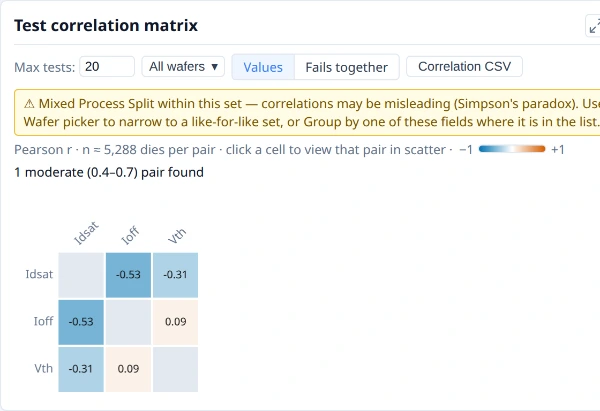
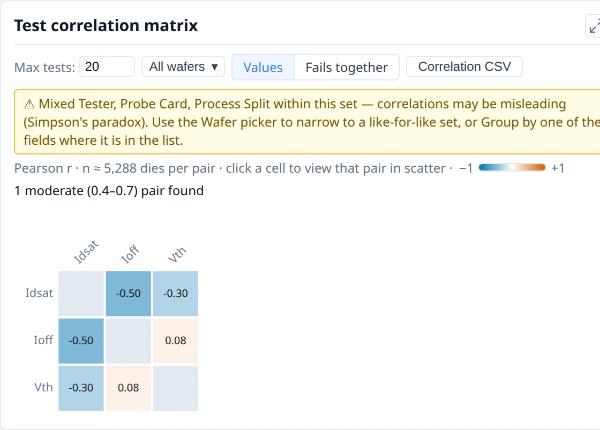
Use neutral names in the sweep examples and give the demo lot equipment
The name-pattern sweep example, its tests and the guide now use neutral test names. The Insights demo lot carries a tester and a probe card, one of them weak, so What divides yield ranks equipment. The Chart gallery gains a thumbnail and a tile for Sweep and for Histogram of the dies picked.

diff --git a/docs/examples/sweeps.html b/docs/examples/sweeps.html
@@ -188,23 +188,23 @@ const LOAD_A = [0, 2, 4, 6, 8, 10, 12, 14, 16].map(mA => mA / 1000);
       <h3>5 · Resistance distribution, values from test names</h3>
       <div class="spec-row">
         <div class="spec-code">
-          <pre>// Tests named "Normalized_LRS= LRS_STATS_12K / Total_LRS (…)": the
+          <pre>// Tests named "Cum_share= LEVEL_12K / Total_n (…)": the
 // threshold is only in the name, so read it from there.
-{ id: 'lrs-cdf',
-  title: 'RRAM LRS distribution — before vs after bake',
+{ id: 'level-cdf',
+  title: 'Level distribution — before vs after bake',
   series: [
-    { label: 'Before bake', tests: ['3500..3509'], xFromName: 'LRS_STATS_{x}' },
-    { label: 'After bake',  tests: ['3510..3519'], xFromName: 'LRS_STATS_{x}' },
+    { label: 'Before bake', tests: ['3500..3509'], xFromName: 'LEVEL_{x}' },
+    { label: 'After bake',  tests: ['3510..3519'], xFromName: 'LEVEL_{x}' },
   ],
   xScale: 'log',            // thresholds grow by multiples: 1K … 1M
-  xUnit: 'Ω', xLabel: 'LRS threshold',
+  xUnit: 'Ω', xLabel: 'Level threshold',
   yLabel: 'Fraction of cells below',
   separationAt: [0.5],      // the median resistance shift
   crossing: false }</pre>
         </div>
         <div class="spec-notes">
           <p class="look">Each test is one point of a cumulative distribution: the fraction
-          of RRAM cells whose low-resistance state reads below a threshold. The program
+          of devices whose resistance reads below a threshold. The program
           writes the threshold only into the test text, so <code>xFromName</code> reads it
           from there — <code>{x}</code> takes the number with its SI prefix, so
           <code>12K</code> is 12,000 Ω. It is a placeholder pattern, not a regular
@@ -241,7 +241,7 @@ const LOAD_A = [0, 2, 4, 6, 8, 10, 12, 14, 16].map(mA => mA / 1000);
     const BAKE_H  = [0, 24, 48, 96, 168, 336, 500, 750, 1000];                 // h — deliberately uneven
     const LOAD_MA = [0, 2, 4, 6, 8, 10, 12, 14, 16];                           // mA, for the model
     const LOAD_A  = LOAD_MA.map(mA => mA / 1000);                              // A, the bare unit, for the axis
-    // LRS thresholds, as the program writes them in the test text.
+    // Level thresholds, as the program writes them in the test text.
     const THRESH  = ['1K', '2K', '5K', '10K', '20K', '50K', '100K', '200K', '500K', '1M'];
     const THRESH_OHM = [1e3, 2e3, 5e3, 1e4, 2e4, 5e4, 1e5, 2e5, 5e5, 1e6];      // Ω, for the model only
 
@@ -251,7 +251,7 @@ const LOAD_A = [0, 2, 4, 6, 8, 10, 12, 14, 16].map(mA => mA / 1000);
     const LOG_ID_LIN = span(3200, 9), LOG_ID_SAT = span(3210, 9);   // derived
     const VT_PROG   = span(3300, 9), VT_ERASE = span(3310, 9);
     const VOH       = span(3400, 9), VOL      = span(3410, 9);
-    const LRS_PRE   = span(3500, 10), LRS_POST = span(3510, 10);
+    const LEVEL_PRE   = span(3500, 10), LEVEL_POST = span(3510, 10);
 
     // Characterisation data: no spec limits on the individual sweep points, which
     // is usual — the judgement is made on the curve, not on each point.
@@ -265,8 +265,8 @@ const LOAD_A = [0, 2, 4, 6, 8, 10, 12, 14, 16].map(mA => mA / 1000);
       ...VOH      .map((tn, i) => ({ testNumber: tn, name: `VOH ${LOAD_MA[i]}mA`,             unit: 'V' })),
       ...VOL      .map((tn, i) => ({ testNumber: tn, name: `VOL ${LOAD_MA[i]}mA`,             unit: 'V' })),
       // The threshold is in the name and nowhere else — what xFromName reads.
-      ...LRS_PRE  .map((tn, i) => ({ testNumber: tn, name: `Normalized_LRS= LRS_STATS_${THRESH[i]} / Total_LRS (before bake)` })),
-      ...LRS_POST .map((tn, i) => ({ testNumber: tn, name: `Normalized_LRS= LRS_STATS_${THRESH[i]} / Total_LRS (after bake)` })),
+      ...LEVEL_PRE  .map((tn, i) => ({ testNumber: tn, name: `Cum_share= LEVEL_${THRESH[i]} / Total_n (before bake)` })),
+      ...LEVEL_POST .map((tn, i) => ({ testNumber: tn, name: `Cum_share= LEVEL_${THRESH[i]} / Total_n (after bake)` })),
     ];
 
     // ── Derived tests ────────────────────────────────────────────────────────
@@ -318,12 +318,12 @@ const LOAD_A = [0, 2, 4, 6, 8, 10, 12, 14, 16].map(mA => mA / 1000);
         xLabel: 'Load current', xUnit: 'A', yLabel: 'Output voltage',
       },
       {
-        id: 'lrs-cdf', title: 'RRAM LRS distribution — before vs after bake',
+        id: 'level-cdf', title: 'Level distribution — before vs after bake',
         series: [
-          { label: 'Before bake', tests: ['3500..3509'], xFromName: 'LRS_STATS_{x}' },
-          { label: 'After bake',  tests: ['3510..3519'], xFromName: 'LRS_STATS_{x}' },
+          { label: 'Before bake', tests: ['3500..3509'], xFromName: 'LEVEL_{x}' },
+          { label: 'After bake',  tests: ['3510..3519'], xFromName: 'LEVEL_{x}' },
         ],
-        xScale: 'log', xUnit: 'Ω', xLabel: 'LRS threshold',
+        xScale: 'log', xUnit: 'Ω', xLabel: 'Level threshold',
         yLabel: 'Fraction of cells below',
         separationAt: [0.5],
         crossing: false,
@@ -382,15 +382,15 @@ const LOAD_A = [0, 2, 4, 6, 8, 10, 12, 14, 16].map(mA => mA / 1000);
           tv[VOL[i]] =       ron * (0.060 * ma + 0.0010 * ma * ma) + 0.005 * noise(80 + i);
         });
 
-        // 5 · LRS distribution: each die's cells are log-normal in resistance
+        // 5 · level distribution: each die's cells are log-normal in resistance
         // (median 10^4.2 ≈ 16 kΩ, higher at the edge); a bake shifts the median
         // up ~2.5× and widens the spread. Each test is the fraction of cells
         // below its threshold — a logistic CDF of log10 R.
         const mu = 4.2 + 0.06 * noise(6) + 0.12 * radial;
         const cdf = (ohm, m, sd) => 1 / (1 + Math.exp(-(Math.log10(ohm) - m) / sd));
         THRESH_OHM.forEach((ohm, i) => {
-          tv[LRS_PRE[i]]  = cdf(ohm, mu,        0.22);
-          tv[LRS_POST[i]] = cdf(ohm, mu + 0.40, 0.27);
+          tv[LEVEL_PRE[i]]  = cdf(ohm, mu,        0.22);
+          tv[LEVEL_POST[i]] = cdf(ohm, mu + 0.40, 0.27);
         });
 
         // Only the sweep tests: the shared demo data's own tests are not the

diff --git a/docs/examples/insights.html b/docs/examples/insights.html
@@ -143,6 +143,10 @@
     <section>
       <h3>Shown on their own pages</h3>
       <p>The maps, the sweeps and the menu on picked dies are not on this page; each has its own.</p>
+      <div class="tiles">
+        <a class="tile" href="drilldown.html" data-id="histogram-of-the-dies-picked" title="How one test’s values are distributed over the dies picked: the number of dies in each value range, with the test’s limits marked."><img src="thumbs/histogram-of-the-dies-picked.webp" alt="" loading="lazy"><strong>Histogram of the dies picked</strong><span>How one test’s values are distributed over the dies picked: the number of dies in each value range, with the test’s limits marked.</span></a>
+        <a class="tile" href="sweeps.html" data-id="sweep" title="A measured value against a swept condition, a curve per series, to show how the part responds across the range."><img src="thumbs/sweep.webp" alt="" loading="lazy"><strong>Sweep</strong><span>A measured value against a swept condition, a curve per series, to show how the part responds across the range.</span></a>
+      </div>
       <div class="chips">
         <a class="chip" href="display-control.html" title="Each die coloured by its hard or soft bin, passing bins in greens and failing bins in other colours, to show where the failures are.">Bin map</a>
         <a class="chip" href="test-values.html" title="Each die coloured by one test’s value on a colour scale, with the test’s limits on the colour bar, to show where on the wafer the value shifts.">Test value map</a>
@@ -150,8 +154,6 @@
         <a class="chip" href="test-values.html" title="Each die coloured by the pass or fail the tester recorded for one test, to show where a test failed, whether or not it has a measured value.">Test pass/fail map</a>
         <a class="chip" href="metadata-mode.html" title="Each die coloured by an attribute the data carries (a test site, a probe step, a zone), to show whether a pattern follows it.">Die attribute map</a>
         <a class="chip" href="lot-stack-analysis.html" title="The wafers of a lot laid over one another die by die: how often a bin occurs, or a value’s mean, median or spread at each position, to show what repeats from wafer to wafer.">Stacked map</a>
-        <a class="chip" href="drilldown.html" title="How one test’s values are distributed over the dies picked: the number of dies in each value range, with the test’s limits marked.">Histogram of the dies picked</a>
-        <a class="chip" href="sweeps.html" title="A measured value against a swept condition, a curve per series, to show how the part responds across the range.">Sweep</a>
       </div>
     </section>
   </div>
@@ -167,7 +169,7 @@
     import { renderWaferGallery } from 'wafermap/render';
     import { analyzeWaferLot } from 'wafermap/stats';
     import {
-      makeResults, makeWaferConfig, DIE_CONFIG,
+      makeResults, makeWaferConfig, equipmentForWafer, DIE_CONFIG,
       TEST_DEFS, FUNCTIONAL_TEST_DEF, HBIN_DEFS, SBIN_DEFS,
     } from './data.js';
 
@@ -186,8 +188,8 @@
     const items = [];
     for (let i = 0; i < WAFER_COUNT; i++) {
       const result = buildWaferMap({
-        results:     makeResults({ seed: 11 + i, waferIndex: i, quadrant: true, edgeFail: true }),
-        waferConfig: makeWaferConfig(i),
+        results:     makeResults({ seed: 11 + i, waferIndex: i, quadrant: true, edgeFail: true, yieldShift: equipmentForWafer(i).yieldShift }),
+        waferConfig: makeWaferConfig(i, { equipment: true }),
         dieConfig:   DIE_CONFIG,
         passBins:    PASS_BINS,
         // A reticle grid, so the lot has reticle cells to take a yield from.
@@ -250,7 +252,7 @@
     // A tile opens its chart live: the Insights tab it is on, then the live view in sight.
     document.addEventListener('click', e => {
       const tile = e.target.closest('.tile');
-      if (!tile) return;
+      if (!tile || !tile.dataset.tab) return;   // a tile with no tab is a link to a page of its own
       e.preventDefault();
       const tab = document.querySelector(`[data-wmap-insights-tab="${tile.dataset.tab}"]`);
       if (tab) tab.click();

diff --git a/docs/examples/data.js b/docs/examples/data.js
@@ -77,6 +77,8 @@ export const SPLIT_VTH_BIAS = { 'POR': 0, 'Hi-dose': 0.050 };
  * @param {number}  [opts.siteFail=0]            Site number (1-based) to inject a yield loss on (~20 pp drop).
  *                                               Ignored when siteCount=0.
  * @param {boolean} [opts.includePartId=false]   When true, adds partId (1-based probe step counter, row order).
+ * @param {number}  [opts.yieldShift=0]          Pass probability lost across the whole wafer (a weak probe card):
+ *                                               pair it with `equipmentForWafer(index).yieldShift`.
  * @param {number}  [opts.waferIndex]             When given, applies that wafer's process-split Vth bias
  *                                                (see `splitForWafer`/`SPLIT_VTH_BIAS`). Pair it with
  *                                                `makeWaferConfig(waferIndex)`, which stamps the matching
@@ -95,6 +97,7 @@ export function makeResults({
   siteCount       = 0,
   siteFail        = 0,
   includePartId   = false,
+  yieldShift      = 0,
   waferIndex,
 } = {}) {
   const vthBias = waferIndex === undefined ? 0 : (SPLIT_VTH_BIAS[splitForWafer(waferIndex)] ?? 0);
@@ -169,6 +172,7 @@ export function makeResults({
         if (cellX === 2 && cellY === 1) pass -= 0.32;
       }
 
+      pass -= yieldShift;
       pass = Math.max(0.04, Math.min(0.97, pass));
 
       // Hard bin + soft bin assignment
@@ -354,16 +358,30 @@ export const WAFER_CONFIG = {
 };
 
 /**
- * Build a wafer config for a specific wafer in a lot.
+ * The equipment a wafer of the demo lot was probed on. Independent of the process split (which alternates), so the two are
+ * different reasons for a difference between wafers: the middle probe card is weak, and costs its wafers yield; the testers
+ * differ in name only.
  * @param {number} index  0-based wafer index.
  */
-export function makeWaferConfig(index) {
+export function equipmentForWafer(index) {
+  const probeCard = index < 3 ? 'PC-0114' : index < 6 ? 'PC-0207' : 'PC-0331';
+  return { tester: index < 5 ? 'Tester-1' : 'Tester-2', probeCard, yieldShift: probeCard === 'PC-0207' ? 0.12 : 0 };
+}
+
+/**
+ * Build a wafer config for a specific wafer in a lot.
+ * @param {number} index  0-based wafer index.
+ * @param {{ equipment?: boolean }} [opts]  `equipment` adds the tester and probe card the wafer was probed on.
+ */
+export function makeWaferConfig(index, { equipment = false } = {}) {
   const n = String(index + 1).padStart(2, '0');
+  const { tester, probeCard } = equipmentForWafer(index);
   return {
     ...WAFER_CONFIG,
     metadata: {
       ...WAFER_CONFIG.metadata,
       waferId: `W${n}`,
+      ...(equipment ? { tester, probeCard } : {}),
       // The lot's groupable axis. Pair with `makeResults({ waferIndex: index })`
       // so the wafer's data actually reflects the split it is labelled with.
       processSplit: splitForWafer(index),

diff --git a/packages/stats/sweepXFromName.ts b/packages/stats/sweepXFromName.ts
@@ -1,5 +1,5 @@
 // Reading a sweep point's x value out of its test's NAME — for programs that
-// record the swept quantity only in the test text ("… LRS_STATS_12K / …").
+// record the swept quantity only in the test text ("… LEVEL_12K / …").
 //
 // The pattern is a placeholder template, not a regular expression: `{x}` reads
 // a number, `*` matches any run of characters, `?` matches exactly one character, everything else is literal.
@@ -86,11 +86,11 @@ export const NAME_PATTERN_EXAMPLES: ReadonlyArray<{ name: string; pattern: strin
   { name: 'Tj-40C_Vth', pattern: 'Tj{x}C', reads: -40, note: 'a minus sign belongs to the number' },
   { name: 'Step 03 of 12', pattern: 'Step {x}', reads: 3 },
   { name: 'PAT_7_RUN2', pattern: 'PAT_{x}_', reads: 7, note: 'text after {x} must follow it, so RUN2 is not read' },
-  { name: 'LRS_STATS_12K', pattern: 'LRS_STATS_{x}', reads: 12000, note: '{x} reads the K as kilo' },
-  { name: 'LRS_STATS_12K', pattern: 'LRS_STATS_{x}K', reads: 12, note: 'write the K in the pattern to keep the number as the name shows it' },
+  { name: 'LEVEL_12K', pattern: 'LEVEL_{x}', reads: 12000, note: '{x} reads the K as kilo' },
+  { name: 'LEVEL_12K', pattern: 'LEVEL_{x}K', reads: 12, note: 'write the K in the pattern to keep the number as the name shows it' },
   { name: 'Fmax_25C_0.55V', pattern: 'C_{x}', reads: 0.55, note: 'the text just before the number, here the end of the temperature' },
   { name: 'VCC_1.8V_TEMP_125', pattern: 'TEMP_{x}', reads: 125, note: 'other numbers in the name are ignored' },
-  { name: 'LRS_RUN3_STATS_12K', pattern: 'LRS*STATS_{x}', reads: 12000, note: '* skips any length of text between the two parts' },
+  { name: 'RUN3_LEVEL_12K', pattern: 'RUN*LEVEL_{x}', reads: 12000, note: '* skips any length of text between the two parts' },
   { name: 'fmax @ 0.55 v', pattern: 'FMAX @ {x}', reads: 0.55, note: 'text matches in any case' },
   { name: 'Vth @ 50mV', pattern: '@ {x}', reads: 0.05, note: 'the m of mV is read as milli, so 50 mV is 0.05' },
   { name: 'Delay 5ns @ 25C', pattern: 'Delay {x}', reads: 5e-9, note: 'a unit with a prefix is scaled to its base unit' },

diff --git a/packages/stats/sweep.ts b/packages/stats/sweep.ts
@@ -64,13 +64,13 @@ export interface SweepSeriesSpec {
    * Read each test's x value from its NAME instead — for programs that record
    * the swept quantity only in the test text. A placeholder pattern, not a
    * regular expression: `{x}` reads a number, `*` matches any run of
-   * characters, `?` matches exactly one character, everything else is literal. `"LRS_STATS_{x}"` reads 12,000 from
-   * a test named `"Normalized_LRS= LRS_STATS_12K / …"`.
+   * characters, `?` matches exactly one character, everything else is literal. `"LEVEL_{x}"` reads 12,000 from
+   * a test named `"Cum_share= LEVEL_12K / …"`.
    *
    * - The pattern is found ANYWHERE in the name; no leading or trailing `*`.
    * - Literal text matches case-insensitively; the value's SI prefix does not
    *   (`m` is milli, `M` mega). `{x}` reads the prefix, and `K` is accepted as
-   *   kilo. Put the prefix in the pattern instead (`"LRS_STATS_{x}K"`) to keep
+   *   kilo. Put the prefix in the pattern instead (`"LEVEL_{x}K"`) to keep
    *   the numbers as the name shows them (12 rather than 12,000).
    * - Each x stays attached to its own test, so a test missing from the data
    *   loses one point instead of shifting every later x the way a positional

diff --git a/packages/canvas-adapter/sweepEditor.ts b/packages/canvas-adapter/sweepEditor.ts
@@ -188,7 +188,7 @@ export function createSweepEditor(o: SweepEditorOptions): SweepEditorHandle {
       }, { mono: true });
       box.appendChild(fieldRow(doc, 'X values', xs.el, 'One per test, in the same order. A different count is reported on the chart, which then uses test order.'));
     } else if (source === 'name') {
-      const pat = textField(s.xFromName ?? '', `Series ${i + 1} name pattern`, 'LRS_STATS_{x}', text => {
+      const pat = textField(s.xFromName ?? '', `Series ${i + 1} name pattern`, 'LEVEL_{x}', text => {
         edit(d => { d.sweep!.series[i].xFromName = text; });
         refreshPreview?.();
         return undefined;

diff --git a/docs/examples/derived-tests.html b/docs/examples/derived-tests.html
@@ -158,7 +158,7 @@
     <p>This page has one sweep. The <a href="sweeps.html"><strong>parametric sweeps
       example</strong></a> has five, each a different use of the crossing and the width
       — temperature inversion, DIBL on a log scale, data retention, output drive with
-      an x unit, and an RRAM resistance distribution read from the test names onto a
+      an x unit, and a resistance distribution read from the test names onto a
       log axis.</p>
   </div>
   <div class="spec-list">

diff --git a/docs/api/render-map.md b/docs/api/render-map.md
@@ -1000,7 +1000,7 @@ insights: {
 | `title` | `string` | Card title |
 | `series[].tests` | `(number \| string)[]` | Test numbers **in sweep order** — never sorted. An entry may be a range string, `"1200..1230"` (see below) |
 | `series[].xValues` | `number[]` | The real swept quantity per test, one per test **after** ranges are expanded. Without it the x axis is the ordinal position, because test numbers are identifiers and nothing guarantees they are evenly spaced — interpolating a crossing along them would assume a scale the data never claimed. Supply it and the crossing is reported in dBm rather than "between the 3rd and 4th test". |
-| `series[].xFromName` | `string` | Read each test's x value from its **name** instead of `xValues` — for programs that record the swept quantity only in the test text. A placeholder pattern, not a regex: `{x}` reads a number, `*` matches anything, `?` matches exactly one character, the rest is literal. Found anywhere in the name; literal text matches regardless of case. `{x}` reads an SI prefix (`12K` → 12,000, `1M` → 1,000,000; case-sensitive, so `m` is milli, with `K` accepted as kilo). A letter counts as a prefix only when it stands alone or leads a unit symbol — `12K`, `12kΩ`, `5us` — so `12Kangaroos` reads 12. In a name written all in capitals a prefix before a unit is read in any case (`5NS` → 5 ns), except `M`, which could be milli or mega and is reported rather than guessed (`2MV`): spell it in the pattern (`"V_{x}MV"`). Put the prefix in the pattern (`"LRS_STATS_{x}K"`) to keep the number as written. Each x stays attached to its own test, so a missing test loses one point rather than shifting the rest. A name the pattern does not fit is reported and nothing is measured. Not a regex because a shared file must not be able to freeze the app: this matcher's cost is bounded whatever the pattern. |
+| `series[].xFromName` | `string` | Read each test's x value from its **name** instead of `xValues` — for programs that record the swept quantity only in the test text. A placeholder pattern, not a regex: `{x}` reads a number, `*` matches anything, `?` matches exactly one character, the rest is literal. Found anywhere in the name; literal text matches regardless of case. `{x}` reads an SI prefix (`12K` → 12,000, `1M` → 1,000,000; case-sensitive, so `m` is milli, with `K` accepted as kilo). A letter counts as a prefix only when it stands alone or leads a unit symbol — `12K`, `12kΩ`, `5us` — so `12Kangaroos` reads 12. In a name written all in capitals a prefix before a unit is read in any case (`5NS` → 5 ns), except `M`, which could be milli or mega and is reported rather than guessed (`2MV`): spell it in the pattern (`"V_{x}MV"`). Put the prefix in the pattern (`"LEVEL_{x}K"`) to keep the number as written. Each x stays attached to its own test, so a missing test loses one point rather than shifting the rest. A name the pattern does not fit is reported and nothing is measured. Not a regex because a shared file must not be able to freeze the app: this matcher's cost is bounded whatever the pattern. |
 | `series[].testNames` | `Record<string, string>` | What each test was called when the sweep was set up, by test number. The number is the key and the name is a check: a test whose name now differs (case and surrounding space aside) is not drawn, the card names it, and the crossing and widths are not measured — a lot from another test program can reuse the numbers for other measurements. The sweep editor and **+ New sweep** fill it in; a sweep written by hand without it is not checked. |
 | `series[].color` | `string` | Optional override. Omit it and the series take CVD-safe palette colours that theme correctly in dark mode; a hardcoded hex does neither. |
 | `crossing` | `boolean` | Default `true` when there are two or more series |
@@ -1015,19 +1015,19 @@ A sweep deliberately carries **no population scope of its own**: it names which 
 
 **Drilldown.** Every sweep plot is also offered on a population the user picks — selected dies, one wafer — in the menu's **Plots** section, alongside a value histogram and process capability. See §5.12.
 
-**Swept values in test names, on a log axis.** A resistance CDF — one test per threshold, the threshold written only in the test text (`Normalized_LRS= LRS_STATS_12K / …`), thresholds growing by multiples:
+**Swept values in test names, on a log axis.** A resistance CDF — one test per threshold, the threshold written only in the test text (`Cum_share= LEVEL_12K / …`), thresholds growing by multiples:
 
 ```ts
 sweeps: [{
-  id: 'lrs-cdf',
-  title: 'LRS CDF — before vs after bake',
-  xLabel: 'LRS threshold', xUnit: 'Ω', xScale: 'log',
+  id: 'level-cdf',
+  title: 'Level CDF — before vs after bake',
+  xLabel: 'Level threshold', xUnit: 'Ω', xScale: 'log',
   yLabel: 'Fraction of cells below',
   separationAt: [0.5],        // the median resistance shift, reported as a ratio
   crossing: false,            // two CDFs of one population are not expected to meet
   series: [
-    { label: 'Before bake', tests: ['31200..31230'], xFromName: 'LRS_STATS_{x}' },  // 12K → 12,000 Ω
-    { label: 'After bake',  tests: ['31300..31330'], xFromName: 'LRS_STATS_{x}' },
+    { label: 'Before bake', tests: ['41200..41230'], xFromName: 'LEVEL_{x}' },  // 12K → 12,000 Ω
+    { label: 'After bake',  tests: ['41300..41330'], xFromName: 'LEVEL_{x}' },
   ],
 }]
 ```

diff --git a/docs/guide/galleries.md b/docs/guide/galleries.md
@@ -520,7 +520,7 @@ renderWaferGallery(container, items, {
 
 A sweep is a plot with `chart: 'sweep'`, so it is a card on the **My plots** sub-tab, kept and shared like any other plot (`plots`, `onPlotsChange`, Export and Import) — on a single map or a gallery alike. **+ New sweep** starts one in the app and **Edit** opens a sweep editor beside the curve; pass `defaultView: 'plot'` to open on the tab. `insights.sweeps` still works but is deprecated: each entry is drawn as a sweep plot under its own `id`, and `readPlotsFile` reads a `tsmap-sweeps` file.
 
-**→ [Example: Parametric sweeps](../examples/sweeps.html)** — five characterisation sweeps: temperature inversion, DIBL, data retention, output drive, and an RRAM resistance distribution read from test names on a log axis.
+**→ [Example: Parametric sweeps](../examples/sweeps.html)** — five characterisation sweeps: temperature inversion, DIBL, data retention, output drive, and a resistance distribution read from test names on a log axis.
 
 **Give the swept quantity whenever you know it.** Without it the x axis is the ordinal position in the sequence, because test numbers are identifiers — nothing guarantees they are evenly spaced or even ascending, and interpolating a crossing point along them would assume a scale the data never claimed. With it, the crossing is reported in dBm rather than "somewhere between the third and fourth test". There are two ways to give it:
 
@@ -545,21 +545,21 @@ A range is checked, not trusted: if one test inside it is missing from this lot,
 - **Along y** (a transfer curve's current, from 1 nA to 1 mA) — sweep a derived test per step, `log10(t[n])`. The width at a constant log-current is then the constant-current threshold shift: DIBL, for two drain biases.
 - **Along x** (thresholds of 1k, 2k, 5k … 1M) — set `xScale: 'log'`. The steps get equal room, the crossing is interpolated along log x, and a width is reported as a **ratio** with both ends, `×2.49 (15.9 kΩ → 39.7 kΩ)`, because on a log axis the same shift is the same multiple anywhere along it. `xUnit` makes the axis and those values read in SI units.
 
-**Swept values in test names.** Some programs record the swept value only in the test text — a resistance CDF with one test per threshold, named `Normalized_LRS= LRS_STATS_12K / Total_LRS= …`. `xFromName` reads it from there with a placeholder pattern:
+**Swept values in test names.** Some programs record the swept value only in the test text — a resistance CDF with one test per threshold, named `Cum_share= LEVEL_12K / Total_n= …`. `xFromName` reads it from there with a placeholder pattern:
 
 ```ts
 sweeps: [{
-  id: 'lrs-cdf',
-  title: 'LRS CDF — before vs after bake',
-  xLabel: 'LRS threshold', xUnit: 'Ω', xScale: 'log',   // thresholds grow by multiples
+  id: 'level-cdf',
+  title: 'Level CDF — before vs after bake',
+  xLabel: 'Level threshold', xUnit: 'Ω', xScale: 'log',   // thresholds grow by multiples
   yLabel: 'Fraction of cells below',
   separationAt: [0.5],                                   // the median resistance shift
   crossing: false,                                       // two CDFs of one cell population do not meet
   series: [
-    // "LRS_STATS_{x}" finds the number after LRS_STATS_ anywhere in the name,
+    // "LEVEL_{x}" finds the number after LEVEL_ anywhere in the name,
     // with its SI prefix: 12K → 12,000 Ω.
-    { label: 'Before bake', tests: ['31200..31230'], xFromName: 'LRS_STATS_{x}' },
-    { label: 'After bake',  tests: ['31300..31330'], xFromName: 'LRS_STATS_{x}' },
+    { label: 'Before bake', tests: ['41200..41230'], xFromName: 'LEVEL_{x}' },
+    { label: 'After bake',  tests: ['41300..41330'], xFromName: 'LEVEL_{x}' },
   ],
 }]
 ```
@@ -579,11 +579,11 @@ sweeps: [{
   | `Tj-40C_Vth` | `Tj{x}C` | −40 | a minus sign belongs to the number |
   | `Step 03 of 12` | `Step {x}` | 3 | |
   | `PAT_7_RUN2` | `PAT_{x}_` | 7 | text after `{x}` must follow it, so `RUN2` is not read |
-  | `LRS_STATS_12K` | `LRS_STATS_{x}` | 12,000 | `{x}` reads the `K` as kilo |
-  | `LRS_STATS_12K` | `LRS_STATS_{x}K` | 12 | write the `K` in the pattern to keep the number as the name shows it |
+  | `LEVEL_12K` | `LEVEL_{x}` | 12,000 | `{x}` reads the `K` as kilo |
+  | `LEVEL_12K` | `LEVEL_{x}K` | 12 | write the `K` in the pattern to keep the number as the name shows it |
   | `Fmax_25C_0.55V` | `C_{x}` | 0.55 | the text just before the number, here the end of the temperature |
   | `VCC_1.8V_TEMP_125` | `TEMP_{x}` | 125 | other numbers in the name are ignored |
-  | `LRS_RUN3_STATS_12K` | `LRS*STATS_{x}` | 12,000 | `*` skips any length of text between the two parts |
+  | `RUN3_LEVEL_12K` | `RUN*LEVEL_{x}` | 12,000 | `*` skips any length of text between the two parts |
   | `fmax @ 0.55 v` | `FMAX @ {x}` | 0.55 | text matches in any case |
   | `Vth @ 50mV` | `@ {x}` | 0.05 | the `m` of `mV` is read as milli, so 50 mV is 0.05 |
   | `Delay 5ns @ 25C` | `Delay {x}` | 5 × 10⁻⁹ | a unit with a prefix is scaled to its base unit |

diff --git a/docs/examples/index.md b/docs/examples/index.md
@@ -27,7 +27,7 @@ Some pages cover several related topics; those links point at the relevant secti
 - [Filtering wafers and dies](filters.html) — one filter for the gallery, a single map and Insights, kept by the host with `insights.filter` and `onFilterChange`; filters saved by name with `savedFilters`, and a hand-written `wafermap-filters` file read by Import… · [Guide: The filter](../guide/galleries.md#the-filter)
 - [Validity limits](validity-limits.html) — tester clamps and open-circuit readings kept out of the map and statistics with `validLow`/`validHigh` and `valueFilter`, with the excluded values counted · [Guide: Validity limits](../guide/data.md#validity-limits-values-that-are-not-measurements)
 - [Derived tests and sweeps](derived-tests.html) — tests computed per die from an expression, and an ordered run of tests read as a response curve with its crossing point and separation measured · [API: DerivedTestDef](../api/core.md#419-derivedtestdef)
-- [Parametric sweeps](sweeps.html) — five characterisation sweeps in their own Insights tab — temperature inversion, DIBL on a log scale via derived tests, data retention, output drive, and an RRAM resistance distribution whose thresholds are read from the test names onto a log axis — each read as a pair of curves with the crossing and width measured · [Guide: Derived tests and sweeps](../guide/galleries.md#derived-tests-and-sweeps)
+- [Parametric sweeps](sweeps.html) — five characterisation sweeps in their own Insights tab — temperature inversion, DIBL on a log scale via derived tests, data retention, output drive, and a resistance distribution whose thresholds are read from the test names onto a log axis — each read as a pair of curves with the crossing and width measured · [Guide: Derived tests and sweeps](../guide/galleries.md#derived-tests-and-sweeps)
 - [Reticle overlays](reticle.html) — photolithography field grid and reticle-position findings · [Guide: Reticle overlays](../guide/layouts.md#reticle-overlays)
 - [Multi-project wafers](multi-project-wafer.html) — compact layout for sparse reticles, with original coordinates, axis labels and layout diagnostics · [Guide: Compact layout for multi-project wafers](../guide/layouts.md#compact-layout-for-multi-project-wafers)
 - [Multi-site parallel testing](test-sites.html) — site-based analysis across a multi-site prober card

diff --git a/CHANGELOG.md b/CHANGELOG.md
@@ -24,6 +24,11 @@ under `### Breaking`.
 
 ## [Unreleased]
 
+### Changed
+
+- **The Insights demo lot carries a tester and a probe card.** Its wafers are probed on two testers and three probe cards, one of them weak, so **What divides yield** ranks equipment beside the process split, and a field that moves with another is named as such. `docs/examples/data.js` takes `equipmentForWafer(index)` and a `yieldShift` option for it.
+- **The Chart gallery shows Sweep and Histogram of the dies picked.** Each has a thumbnail and a tile that opens its own page. The sweep, derived-test and name-pattern examples use neutral test names (`LEVEL_12K`, `Cum_share= …`) in the guide, the API reference and the tests.
+
 ## [0.39.0] — 2026-10-31
 
 ### Added
@@ -1510,10 +1515,10 @@ under `### Breaking`.
 
 - **Sweep x values from test names, an x unit, and a log x axis.** For a
   program that records the swept quantity only in the test text — a
-  resistance CDF named `Normalized_LRS= LRS_STATS_12K / …`, one test per
+  resistance CDF named `Cum_share= LEVEL_12K / …`, one test per
   threshold:
   - `SweepSeriesSpec.xFromName` reads each test's x from its name with a
-    placeholder pattern, `"LRS_STATS_{x}"`: `{x}` reads a number with its SI
+    placeholder pattern, `"LEVEL_{x}"`: `{x}` reads a number with its SI
     prefix (`12K` → 12,000; case-sensitive, `K` accepted as kilo; a letter is a
     prefix only alone or before a unit, so `12Kangaroos` reads 12; in an all-capitals
     name the unit's case is gone, so `5NS` is 5 ns and `2MV` — milli or mega? — is
@@ -1748,7 +1753,7 @@ under `### Breaking`.
 - **Docs and examples brought up to date with this release.** The developer
   guide's sweep section no longer says `tests` has no range syntax or that a
   sweep has no log option; it covers ranges, `xFromName`, `xUnit`, `xScale` and
-  drilldown. The sweeps example adds a fifth sweep (an RRAM resistance
+  drilldown. The sweeps example adds a fifth sweep (a resistance
   distribution read from test names on a log axis) and gives the output-driver
   sweep an x unit; the derived-tests example's sweep uses ranges and a real swept
   quantity (pulse amplitude in volts) instead of ordinal steps, and places the †

diff --git a/docs/user-guide.md b/docs/user-guide.md
@@ -1406,7 +1406,7 @@ test numbers and ranges, such as `1010, 1011, 1020..1030` (a range means the
 tests declared between its ends). Then choose where each test's X comes from:
 **Test order** (the position in the run, labelled by test), **Values** (one
 number per test, in the same order) or **From test name** (a pattern such as
-`LRS_STATS_{x}`, for programs that record the swept value only in the test
+`LEVEL_{x}`, for programs that record the swept value only in the test
 text). The editor lists the first few test names with what your pattern reads
 from each as you type, and **Pattern examples** shows worked ones: `@ {x}`
 reads 0.55 from `Fmax @ 0.55 V`, and `-{x}` reads 5 from `1234-5`). Text that is not a test number or a range is flagged under the box,
